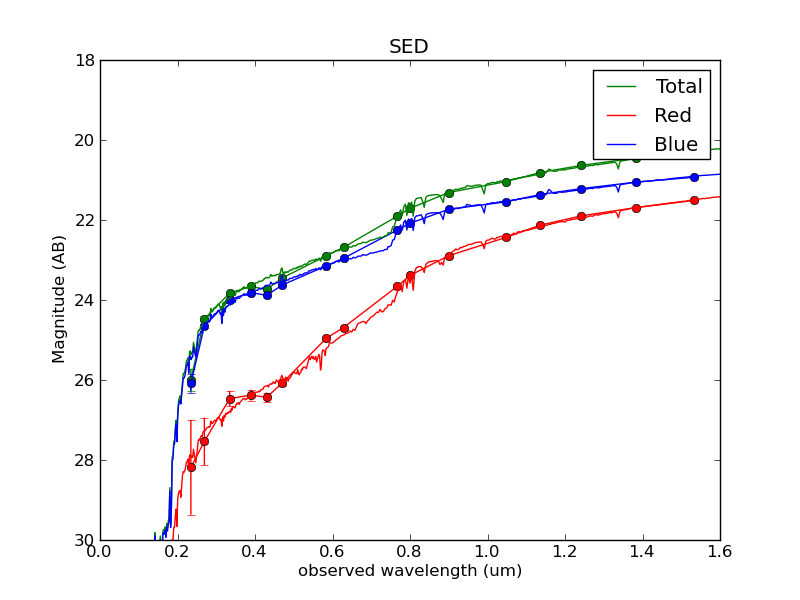
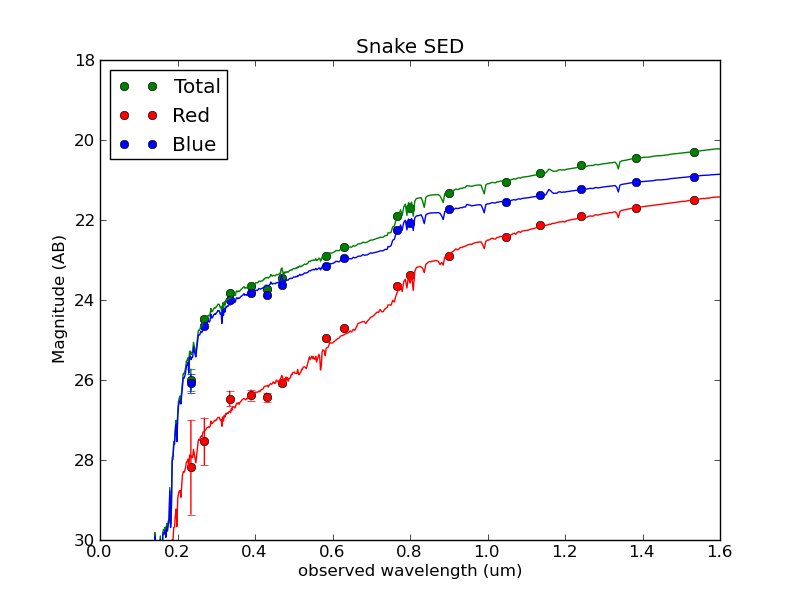
updating repository

diff --git a/python/joey/plot_SED.py b/python/joey/plot_SED.py
@@ -13,7 +13,7 @@ if __name__ == '__main__':
     savepath = '/home/obsastro1/siena-astrophysics/python/joey/sed_plot.png'
 
     cat = se.se_catalog(datafile)
-    #convert flux to mag
+    
 ###########################################
 
     plt.figure()
@@ -24,9 +24,9 @@ if __name__ == '__main__':
 
     mag_err1 = (2.5/log(10))*((1/sqrt(cat.ivar1))/cat.flux1)
 
-    plt.plot(um1,mag1,'g-',label='Total')
+    #plt.plot(um1,mag1,'go',label='Total')
 
-    plt.errorbar(um1,mag1,mag_err1, fmt = 'go')
+    plt.errorbar(um1,mag1,mag_err1, fmt = 'go', label = 'Total')
 
 ##########################################
 
@@ -36,9 +36,9 @@ if __name__ == '__main__':
 
     mag_err2 = (2.5/log(10))*((1/sqrt(cat.ivar2))/cat.flux2)
 
-    plt.plot(um2,mag2,'r-',label='Red')
+    #plt.plot(um2,mag2,'ro',label='Red')
 
-    plt.errorbar(um2,mag2,yerr= mag_err2, fmt ='ro')
+    plt.errorbar(um2,mag2,yerr= mag_err2, fmt ='ro', label= 'Red')
 
 #########################################
 
@@ -48,25 +48,30 @@ if __name__ == '__main__':
 
     mag_err3 = (2.5/log(10))*((1/sqrt(cat.ivar3))/cat.flux3)
 
-    plt.plot(um3,mag3,'b-',label='Blue')
+    #plt.plot(um3,mag3,'bo',label='Blue')
 
-    plt.errorbar(um3,mag3,yerr=mag_err3, fmt ='bo')
+    plt.errorbar(um3,mag3,yerr=mag_err3, fmt ='bo', label='Blue')
 
 ########################################
 
     bestfit_path = '/home/obsastro1/siena-astrophysics/summer2013/clash/arcphot_bestfit.txt'
     
     ca = se.se_catalog(bestfit_path)
+
     bestfit_um1 = ca.wave1*.0001
     bestfit_mag1 = ca.flux1
-    plt.plot(bestfit_um1, bestfit_mag1, 'g-')
+    #arr1 = np.delete(bestfit_um1,[::2],None)
+    plt.plot(bestfit_um1,bestfit_mag1, 'g-')
+
 
     bestfit_um2 = ca.wave2*.0001
     bestfit_mag2 = ca.flux2
     plt.plot(bestfit_um2, bestfit_mag2, 'r-')
+            
 
     bestfit_um3 = ca.wave3*.0001
     bestfit_mag3 = ca.flux3
+    
     plt.plot(bestfit_um3, bestfit_mag3, 'b-')
     
    
@@ -75,8 +80,8 @@ if __name__ == '__main__':
     ax.set_xlim(0,1.6)
     #ax.set_ylim(ax.get_ylim()[::-1])
     #legend(('Total','Red','Blue'),loc='upper left')
-    plt.legend()
-    plt.title('SED')
+    plt.legend(loc = 'upper left')
+    plt.title('Snake SED')
     plt.xlabel('observed wavelength (um)')
     plt.ylabel('Magnitude (AB)')
     plt.savefig(savepath)
